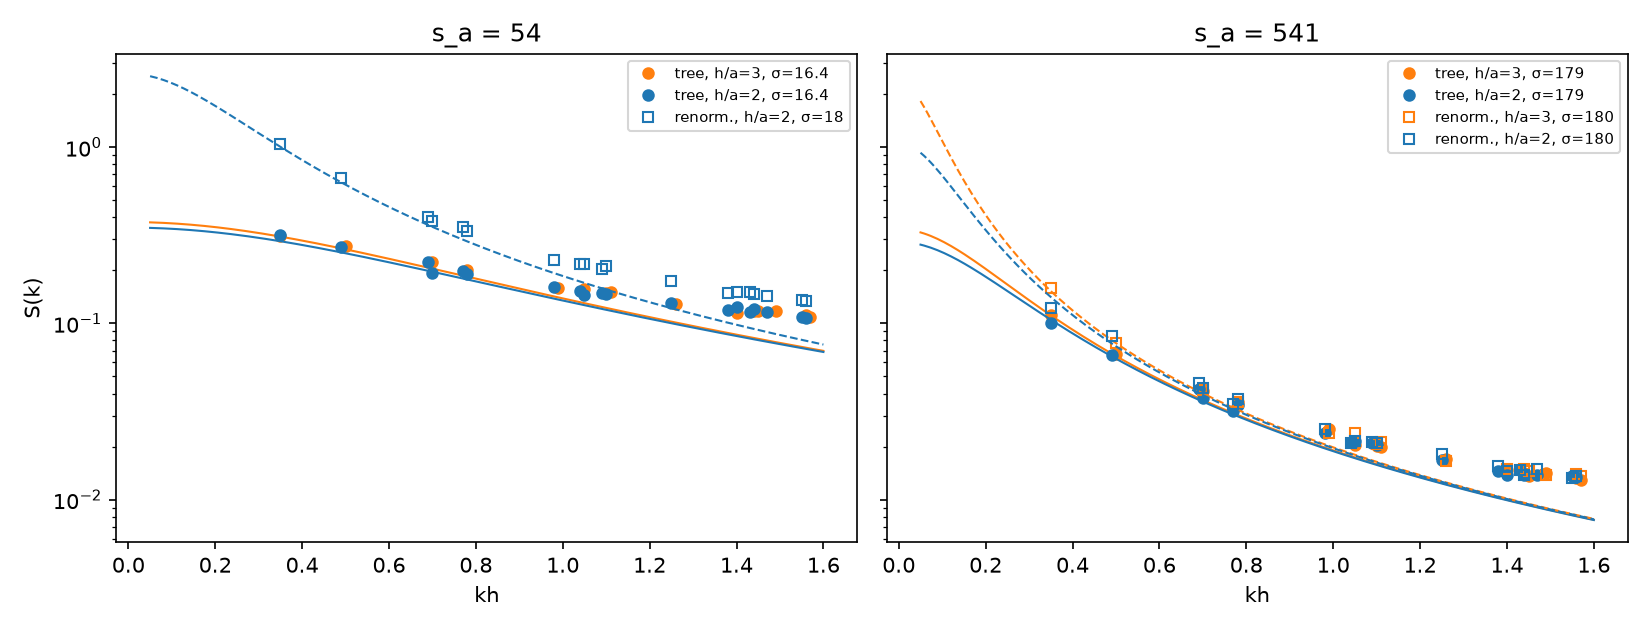
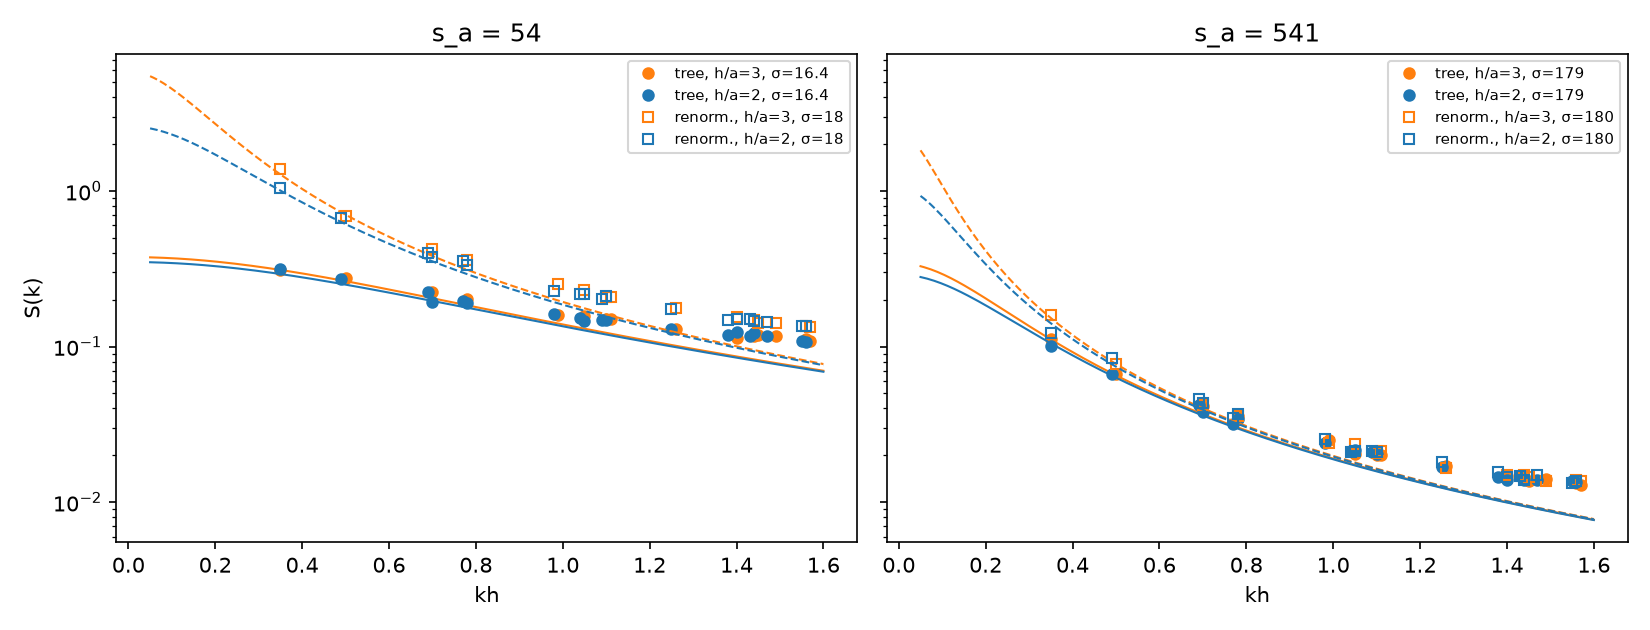
eos_renorm complete: gravity.tex Results with the full table, finite differences, S(k) at h/a = 2, 3; extension eos_renorm_big (L = 36h, job 61762047) for S(k) at small k

diff --git a/docs/gravity.tex b/docs/gravity.tex
@@ -341,9 +341,12 @@ $1/\delta\klab$ (\nolinkurl{partition_v2.tex}, ``The positions back in the therm
 \section{Results}
 \label{sec:results}
 
-Campaign \texttt{eos\_renorm} (NERSC job 61748587, \texttt{nersc/LOG.md}); figures and table from \texttt{examples/eos\_measure.py}.  \emph{Status: partial.}
-So far one run is complete, the tree-level Hamiltonian at the lattice start $s_a=16$ ($\sigma_{\rm p}=3.89$), $h/a=2$, sixteen seeds of 400 updates;
-this section will be extended as the other runs arrive.
+Campaign \texttt{eos\_renorm} (NERSC jobs 61748587, 61751343, 61751345, \texttt{nersc/LOG.md}); figures and \texttt{docs/figs/eos\_table.csv} from
+\texttt{examples/eos\_measure.py}.  Complete: both Hamiltonians at the lattice starts $s_a=16$, $54$, $541$ and $h/a=2$, $3$, $4$ in the box $L=9h$, sixteen seeds of
+400 hybrid Monte Carlo updates each (one third discarded); the runs at $s_a\times0.9$, $1.1$ at $h/a=2$ for finite differences; and the boxes $L=18h$ at $h/a=2$, $3$
+for $S(k)$, eight seeds each.  The statistical errors of $E/\er-1$ and $\pr_{\rm model}/\pr-1$ are $1$--$5\times10^{-4}$ (between seeds).  Pending: the boxes
+$L=36h$ for $S(k)$ at small $k$ (job 61762047).  The renormalized Hamiltonian shifts the temperature of a lattice start, so its $\sigma_{\rm p}$ are $5.16$, $18.0$ and
+$180$ in place of $3.89$, $16.4$ and $179$.
 
 \paragraph{The predictions at $\sigma_{\rm p}=3.89$.}  At this small entropy per particle the one-loop values are not enough, and the exact single particle
 (quadrature of $F_1$, \texttt{partition.tex}, ``Small entropy per particle'') gives $\Pi-\sigma_{\rm p}=1.35$ in place of $\mathcal K_0=3/2$ and $\Delta e=4.7\,T$ in place of $5\,T$.
@@ -369,77 +372,137 @@ $c_s^2$ at fixed $\bar n$ & $0.5$ & & $0.4837\pm0.0014$ \\
 \bottomrule
 \end{tabular}
 \end{center}
+At $h/a=3$ and $4$ the two entries rise to $0.593$, $0.598$ ($E$) and $0.568$, $0.584$ ($\pr_{\rm model}$); linear in $1/(\bar nh^2)$ both extrapolate to $0.604$, which is
+the exact single particle alone, $(1+1.35)/3.89=4.7/(2\times3.89)=0.604$.
 
-\paragraph{What it shows so far.}
+\paragraph{The equation of state at $\sigma_{\rm p}=16$--$180$.}  Against \Sect{sec:expect}: the predictions (in brackets) are the table there at $h/a=2$, with the
+correction of the positions scaled by $4.62/(\bar nh^2)$ at $h/a=3$, $4$ ($\bar nh^2=10.4$, $18.5$); for the renormalized runs, the entries at $\sigma_{\rm p}=16.4$ and
+$179$.  Trace in units of $\bar nT$.
+\begin{center}
+\small
+\begin{tabular}{lcccccc}
+\toprule
+ & $\sigma_{\rm p}$ & $h/a$ & $E/\er-1$ & $\pr_{\rm model}/\pr-1$ & $(\pr_{\rm model}-E/2)/\bar nT$ & $\times\,\bar nh^2$ \\
+\midrule
+tree & 16.4 & 2 & $+0.135$ ($+$0.140) & $+0.107$ ($+$0.110) & $-0.463$ ($-$0.390) & $-2.14$ \\
+tree & 16.4 & 3 & $+0.144$ ($+$0.147) & $+0.131$ ($+$0.134) & $-0.202$ ($-$0.173) & $-2.09$ \\
+tree & 16.4 & 4 & $+0.147$ ($+$0.149) & $+0.140$ ($+$0.142) & $-0.113$ ($-$0.098) & $-2.08$ \\
+tree & 179 & 2 & $+0.0099$ ($+$0.0100) & $+0.0009$ ($+$0.0020) & $-1.595$ ($-$1.440) & $-7.37$ \\
+tree & 179 & 3 & $+0.0123$ ($+$0.0122) & $+0.0086$ ($+$0.0086) & $-0.671$ ($-$0.640) & $-6.97$ \\
+tree & 179 & 4 & $+0.0130$ ($+$0.0130) & $+0.0109$ ($+$0.0110) & $-0.371$ ($-$0.360) & $-6.85$ \\
+renorm. & 18 & 2 & $-0.015$ ($-$0.016) & $-0.039$ ($-$0.040) & $-0.437$ ($-$0.390) & $-2.02$ \\
+renorm. & 18 & 3 & $-0.006$ ($-$0.007) & $-0.017$ ($-$0.018) & $-0.190$ ($-$0.173) & $-1.97$ \\
+renorm. & 18 & 4 & $-0.003$ ($-$0.004) & $-0.009$ ($-$0.010) & $-0.106$ ($-$0.098) & $-1.96$ \\
+renorm. & 180 & 2 & $-0.0041$ ($-$0.0040) & $-0.0129$ ($-$0.0120) & $-1.588$ ($-$1.440) & $-7.33$ \\
+renorm. & 180 & 3 & $-0.0017$ ($-$0.0018) & $-0.0054$ ($-$0.0053) & $-0.668$ ($-$0.640) & $-6.95$ \\
+renorm. & 180 & 4 & $-0.0009$ ($-$0.0010) & $-0.0030$ ($-$0.0030) & $-0.370$ ($-$0.360) & $-6.83$ \\
+\bottomrule
+\end{tabular}
+\end{center}
+
+\paragraph{Temperature derivatives: finite differences.}  The runs at $s_a\times0.9$ and $1.1$ have the same lattice, hence the same density, at temperatures $\pm5\%$ apart;
+$\partial E/\partial T\simeq\Delta E/\Delta T$ and $c_s^2=\Delta\pr_{\rm model}/\Delta E$ at fixed $\bar n$ are fifteen times more precise than the canonical fluctuations
+(\Fig{fig:derivs}, in brackets), with which they agree.  At fixed density $\sigma_{\rm p}\propto T^2$, so a term $c/\sigma_{\rm p}$ in $E/\er-1$ adds $c/(3\sigma_{\rm p})$ to
+$(\partial E/\partial T)/(d\er/dT)-1$: the one-loop $5/(6\sigma_{\rm p})$ at tree level.
+\begin{center}
+\small
+\resizebox{\textwidth}{!}{\begin{tabular}{lcccc}
+\toprule
+ & $\sigma_{\rm p}$ & $(\partial E/\partial T)/(d\er/dT)-1$ & $(\partial\pr_{\rm model}/\partial T)/(d\pr/dT)-1$ & $c_s^2$ at fixed $\bar n$ \\
+\midrule
+tree & 16.4 & $+0.042\pm0.001$ ($+0.07\pm0.02$) & $+0.023\pm0.001$ ($+0.05\pm0.02$) & $0.4906\pm0.0008$ ($0.4900\pm0.0013$) \\
+tree & 179 & $+0.0004\pm0.0003$ ($-0.03\pm0.02$) & $-0.0056\pm0.0003$ ($-0.04\pm0.02$) & $0.4970\pm0.0002$ ($0.4963\pm0.0008$) \\
+renorm. & 18.0 & $-0.011\pm0.001$ ($-0.03\pm0.02$) & $-0.030\pm0.001$ ($-0.05\pm0.02$) & $0.4906\pm0.0009$ ($0.4892\pm0.0010$) \\
+renorm. & 180 & $-0.0043\pm0.0003$ ($-0.02\pm0.02$) & $-0.0102\pm0.0003$ ($-0.02\pm0.02$) & $0.4970\pm0.0002$ ($0.4964\pm0.0005$) \\
+\bottomrule
+\end{tabular}}
+\end{center}
+
+\paragraph{What it shows.}
 \begin{itemize}
-\item The energy density and the pressure of the tree-level model are $58\%$ and $52\%$ above the target at $\sigma_{\rm p}=3.9$, and the theory with the exact
-  single particle and the correction of the positions accounts for both to $0.2\%$, with no free parameter.
-\item The kinetic stress is the label pressure $\bar nT$ to $0.1\%$ (equipartition), and the virial stress exceeds $\pr$ by the particle's own share
-  $\Pi-\sigma_{\rm p}$ less the correction of the positions, $1.35-0.32=1.03$, measured $1.026$.
-\item The trace $\pr_{\rm model}-E/2=-0.22\,\bar nT$ is the departure from the conformal relation, as predicted; at one loop it would vanish.
-\item The temperature derivatives from the canonical fluctuations agree with the one-loop $5/(6\sigma_{\rm p})$ within their $15\%$ errors.  $c_s^2$ at fixed density
-  is below $1/2$ by $0.016\pm0.0014$, a significant departure, beyond one loop: the share $\Pi-\sigma_{\rm p}$, the fluctuation energy $\Delta e$ and the correction of
-  the positions all depend on $\sigma_{\rm p}\propto T^2$ at fixed density.  The comparison with the renormalized Hamiltonian will say how much of it is from
-  the labels.
+\item \emph{The renormalization works.}  The renormalized Hamiltonian removes the tree-level excess $2.5/\sigma_{\rm p}$ (\Fig{fig:EP}): what remains is the correction of the
+  positions, as predicted to $10\%$ or better at $\sigma_{\rm p}=18$ and $180$ and every $h/a$, and it falls as $1/(\bar nh^2)$ (at $\sigma_{\rm p}=18$,
+  $\bar nh^2(\pr_{\rm model}/\pr-1)=-0.180$, $-0.172$, $-0.161$ at $h/a=2$, $3$, $4$).
+\item The tree-level entries are $2.5/\sigma_{\rm p}$ plus the same correction, to $\pm0.005$ at $\sigma_{\rm p}=16.4$ and $\pm0.001$ at $179$.  At $\sigma_{\rm p}=3.9$ the
+  exact single particle is needed (above).
+\item The kinetic stress is $\bar nT$ to $0.1\%$ in every run (equipartition).
+\item \emph{The trace is the positions'.}  $\pr_{\rm model}-E/2$ is nearly the same for both Hamiltonians ($6\%$ at $\sigma_{\rm p}\approx17$, $1\%$ at $180$), and $\bar nh^2(\pr_{\rm model}-E/2)/\bar nT$ collapses across
+  $h/a$ (\Fig{fig:trace}): $-2.0$ to $-2.1$ at $\sigma_{\rm p}\approx17$, $-6.8$ to $-7.4$ at $\sigma_{\rm p}\approx180$.  It is larger than the one-loop
+  correction of the positions ($-1.80$, $-6.65$), by $9$--$19\%$ at $\sigma_{\rm p}\approx17$ and $3$--$11\%$ at $180$, most at $h/a=2$: the next order in $1/(\bar nh^2)$.
+\item \emph{So is the departure of $c_s^2$ from $1/2$.}  The finite differences give the same $c_s^2$ for both Hamiltonians, $0.4906$ at $\sigma_{\rm p}\approx17$ and $0.4970$ at
+  $180$, and the fluctuation values approach $1/2$ as $1/(\bar nh^2)$ ($1/2-c_s^2=0.016$, $0.007$, $0.005$ at $s_a=16$, $h/a=2$, $3$, $4$, tree level): the labels
+  contribute nothing to it, the kernel does.  The slopes are additive: the tree-level $+0.042$ at $\sigma_{\rm p}=16.4$ is the one-loop $5/(6\sigma_{\rm p})=0.051$ plus the
+  positions' $-0.011$ (the renormalized value).
+\item \emph{Renormalized at small entropy per particle} ($s_a=16$, $\sigma_{\rm p}=5.16$): $E/\er-1=+0.026$, $+0.038$, $+0.042$ and $\pr_{\rm model}/\pr-1=-0.009$,
+  $+0.023$, $+0.034$ at $h/a=2$, $3$, $4$, both extrapolating to $+0.048$ at $\bar nh^2\to\infty$, with the trace going to zero.  The one-loop counterterm leaves
+  a single-particle remainder of about $0.25/\sigma_{\rm p}$ here, the counterpart of the tree level's $-0.038$ at $\sigma_{\rm p}=3.9$ (above); it is not in the
+  predictions of \Sect{sec:expect}, and a quadrature of the renormalized single particle at $\sigma_{\rm p}=5.2$ would check it.  The temperature derivatives
+  there, $-0.11$, $-0.07$, $-0.08$ (canonical fluctuations, $\pm0.02$), carry the same remainder.
 \end{itemize}
 
 \begin{figure}[h]
 \includegraphics[width=\textwidth]{figs/eos_EP.png}
 \caption{$E/\er(T_0)-1$ (left) and $\pr_{\rm model}/\pr(T_0)-1$ (right) against $\sigma_{\rm p}$; filled, tree level; open, renormalized; colours by $h/a$.  Dashed: the
-one-loop tree-level value $2.5/\sigma_{\rm p}$.  (Partial: one run.)}
+one-loop tree-level value $2.5/\sigma_{\rm p}$.}
 \label{fig:EP}
 \end{figure}
 
 \begin{figure}[h]
 \includegraphics[width=\textwidth]{figs/eos_derivs.png}
 \caption{$\partial E/\partial T$ and $\partial\pr/\partial T$ at fixed density over the target, and $c_s^2$ at fixed density, from the canonical fluctuations; black diamonds,
-finite differences from the runs at $s_a\times0.9$, $1.1$ (when available).  Dashed: one loop, tree level.  (Partial.)}
+finite differences from the runs at $s_a\times0.9$, $1.1$ ($h/a=2$; filled, tree; open, renormalized).  Dashed: one loop, tree level.}
 \label{fig:derivs}
 \end{figure}
 
 \begin{figure}[h]
 \centering
 \includegraphics[width=0.55\textwidth]{figs/eos_trace.png}
-\caption{The trace times the number of neighbours, $\bar nh^2(\pr_{\rm model}-E/2)/\bar nT$, which collapses the correction of the positions across $h/a$.  (Partial.)}
+\caption{The trace times the number of neighbours, $\bar nh^2(\pr_{\rm model}-E/2)/\bar nT$, which collapses the correction of the positions across $h/a$; filled, tree level; open, renormalized.}
 \label{fig:trace}
 \end{figure}
 
-\paragraph{The structure factor.}  In the boxes $L=0.9=18h$ at $h/a=2$ ($N=1512$, eight seeds each), $S(k)$ of the positions, averaged over shells of $|\bm k|$, against
+\paragraph{The structure factor.}  In the boxes $L=0.9=18h$ at $h/a=2$ and $3$ ($N=1512$ and $3402$, eight seeds each), $S(k)$ of the positions, averaged over shells of $|\bm k|$, against
 the Ornstein--Zernike form of \texttt{partition\_v2.tex},
 \st
 S(k)\simeq\frac1{\klab+\delta\klab+\sigma_{\rm p}\mu_2k^2/2},\qquad \mu_2=\tfrac59h^2\ \ \text{(Wendland C2)},
 \label{SkOZ}
 \stp
-with $\klab=5/2$ at tree level and $0$ renormalized, and $\delta\klab$ the bulk modulus supplied by the positions ($0.36$ at $\sigma_{\rm p}=16.4$, $0.95$ at $179$,
-\texttt{partition\_v2.tex}): no free parameter.
+with $\klab=5/2$ at tree level and $0$ renormalized, and $\delta\klab$ the bulk modulus supplied by the positions ($0.36$ at $\sigma_{\rm p}=16.4$, $0.95$ at $179$ for
+$h/a=2$, \texttt{partition\_v2.tex}, scaled by $4.62/(\bar nh^2)$ at $h/a=3$): no free parameter.
 \begin{center}
-\begin{tabular}{lccccc}
+\resizebox{\textwidth}{!}{\begin{tabular}{lccccc}
 \toprule
  & $\sigma_{\rm p}$ & $S(0)$ predicted & $kh=0.35$ & $kh=0.49$ & $kh=0.70$ \\
 \midrule
+\multicolumn{6}{l}{$h/a=2$} \\
 tree, $s_a=54$ & 16.4 & 0.35 & $0.316\pm0.012$ (0.293) & $0.271\pm0.014$ (0.253) & $0.209\pm0.005$ (0.196) \\
 renormalized, $s_a=54$ & 18.0 & 2.6 & $1.05\pm0.04$ (1.00) & $0.67\pm0.04$ (0.63) & $0.390\pm0.013$ (0.353) \\
 tree, $s_a=541$ & 179 & 0.29 & $0.101\pm0.006$ (0.105) & $0.066\pm0.004$ (0.065) & $0.040\pm0.003$ (0.036) \\
 renormalized, $s_a=541$ & 180 & 1.05 & $0.123\pm0.010$ (0.141) & $0.085\pm0.006$ (0.077) & $0.044\pm0.002$ (0.039) \\
+\multicolumn{6}{l}{$h/a=3$} \\
+tree, $s_a=54$ & 16.4 & 0.38 & $0.312\pm0.011$ (0.311) & $0.276\pm0.013$ (0.266) & $0.223\pm0.003$ (0.204) \\
+renormalized, $s_a=54$ & 18.0 & 5.9 & $1.39\pm0.12$ (1.28) & $0.685\pm0.025$ (0.730) & $0.423\pm0.013$ (0.382) \\
+tree, $s_a=541$ & 179 & 0.34 & $0.112\pm0.012$ (0.111) & $0.067\pm0.004$ (0.067) & $0.041\pm0.001$ (0.037) \\
+renormalized, $s_a=541$ & 180 & 2.4 & $0.159\pm0.012$ (0.152) & $0.078\pm0.007$ (0.080) & $0.042\pm0.003$ (0.040) \\
 \bottomrule
-\end{tabular}
+\end{tabular}}
 \end{center}
 (in brackets, \Eq{SkOZ}).
 \begin{itemize}
 \item At $s_a=54$ the renormalized $S(k)$ rises at small $k$ as predicted: three times the tree-level value at $kh=0.35$, on the curve \Eq{SkOZ} with
-  $\klab=\delta\klab$ to $5\%$.  The labels of the renormalized Hamiltonian are neutral, and the positions are held at long wavelength only by the pressure through
-  the kernel and by $\delta\klab$; the correlation length is $\xi=3.6h$ against $1.3h$ at tree level.
+  $\klab=\delta\klab$ to $5\%$; at $h/a=3$, where $\delta\klab$ is smaller, it rises further ($1.39\pm0.12$, predicted $1.28$).  The labels of the renormalized Hamiltonian are neutral, and the positions are held at long wavelength only by the pressure through
+  the kernel and by $\delta\klab$; the correlation length is $\xi=3.6h$ ($5.4h$ at $h/a=3$) against $1.3h$ at tree level.
 \item At $s_a=541$ the two Hamiltonians differ only below $kh\approx0.3$ ($\xi=7.3h$ against $3.8h$), which this box ($kh_{\rm min}=0.35$) does not reach; both agree
-  with \Eq{SkOZ} at the $k$ it has.  To see $S(0)\to1/\delta\klab\approx1$ needs $kh\lesssim0.15$, a box $L\gtrsim40h$.
+  with \Eq{SkOZ} at the $k$ it has.  To see $S(k)$ turn over towards $S(0)=1/\delta\klab\approx1$ needs $kh\lesssim0.2$: the boxes $L=36h$ ($kh_{\rm min}=0.175$, predicted $S=0.40$
+  renormalized against $0.20$ at tree level) are running (job 61762047).
 \item The tree-level $S(k)$ is below $1$ everywhere, $S(0)=1/(\klab+\delta\klab)$: the counting term holds the particles at the preferred density.
 \item Above $kh\approx0.8$ the data lie above \Eq{SkOZ} by $10$--$30\%$, as expected of a small-$k$ form; the full $S(k)=1/(1+A(k))$ is not compared here.
 \end{itemize}
 
 \begin{figure}[h]
 \includegraphics[width=\textwidth]{figs/eos_Sk.png}
-\caption{$S(k)$ of the positions in the boxes $L=0.9$, averaged over shells of $|\bm k|$; filled, tree level; open, renormalized.  Lines: Ornstein--Zernike,
-\Eq{SkOZ}, with $\delta\klab$ from \texttt{partition\_v2.tex} (solid, tree level; dashed, renormalized).  Left $s_a=54$, right $s_a=541$; $h/a=2$ (the $h/a=3$ boxes are
-still running).}
+\caption{$S(k)$ of the positions in the boxes $L=0.9=18h$, averaged over shells of $|\bm k|$; filled, tree level; open, renormalized.  Lines: Ornstein--Zernike,
+\Eq{SkOZ}, with $\delta\klab$ from \texttt{partition\_v2.tex} (solid, tree level; dashed, renormalized).  Left $s_a=54$, right $s_a=541$; colours by $h/a$.}
 \label{fig:Sk}
 \end{figure}
 

diff --git a/examples/eos_measure.py b/examples/eos_measure.py
@@ -61,7 +61,7 @@ for d in sorted(glob.glob(os.path.join(ROOT, "*"))):
     if files:
         runs[os.path.basename(d)] = combine([per_seed(p) for p in files])
 print(f"{len(runs)} runs")
-pat = re.compile(r"eos_(tree|ren)_s([\d.]+)_ha(\d)(_L0\.9)?$")
+pat = re.compile(r"eos_(tree|ren)_s([\d.]+)_ha(\d)(_L(?:0\.9|1\.8))?$")
 
 
 def sel(kind, ha=None, big=False, sa=None):

diff --git a/nersc/LOG.md b/nersc/LOG.md
@@ -627,6 +627,17 @@ plus the correction of the positions (+0.14, +0.11 at sigma = 16.4, h/a = 2); re
   **61751343**; the rest, tasks 123–288 and 353–480, job **61751345**.  Lesson: for 2-thread tasks of ≤ 2 h the shared QOS starts ~70
   at once within minutes; dedicated nodes only add queue wait.  Task times on 2 threads: h/a = 2 ~10 min, h/a = 3 ~38 min,
   h/a = 4 ~75 min, L = 0.9 h/a = 3 ~2 h (estimate).
+- **Done 17:59**: all 480 tasks COMPLETED (61748587, 61751343, 61751345; the L = 0.9 h/a = 3 boxes took 4.4 h, h/a = 2 1 h).  Total
+  ≈ 8 node-hours (shared, 2 cores).  docs/gravity.tex "Results" extended: full table (σ ≈ 17, 180 × h/a = 2, 3, 4, both Hamiltonians),
+  finite differences, S(k) at h/a = 2, 3.  Outcome: renormalized E/e−1, P/p−1 = the correction of the positions alone, as predicted to
+  ≤ 10%, ∝ 1/(n h²); tree = 2.5/σ + the same; the trace and the departure of c_s² from 1/2 are the positions' (same for both
+  Hamiltonians, collapse with n h²; trace 9–19% above one loop at σ ≈ 17); renormalized S(k) rises at small k on Ornstein–Zernike
+  with B = δB (no free parameter).  Open: renormalized at σ = 5.16, E/e−1 and P/p−1 → +0.048 at n h² → ∞ (a single-particle remainder
+  beyond one loop; check by quadrature).
+- Extension `eos_renorm_big` (`nersc/campaign_eos_renorm_big.txt`): S(k) in the box L = 1.8 = 36h (kh_min = 0.175), h/a = 2, ren and tree
+  at s_a = 541, ren at s_a = 54, 16 seeds × 400 updates, SR_KHMAX = 1.6: job **61762047** (48 tasks, shared, -t 16 h, est. ~9 h per task,
+  ~7 node-hours of the owner's extra 24).  Output into `$SCRATCH/sph/eos_renorm/*_L1.8`.  Question: does the renormalized S(k) at σ = 180
+  turn over towards S(0) = 1/δB ≈ 1 (predicted 0.40 at kh_min, tree 0.20)?
 - (laptop session, 2026-11-21) docs/gravity.tex now has the section "Results" with the four figures and a table for the first run
   (tree, s_a = 16, h/a = 2): agreement to 0.2% with the exact single particle plus the positions.  When more runs finish, rerun
   eos_measure.py and **extend that section** (table rows, the bullet list), do not start a new one.
